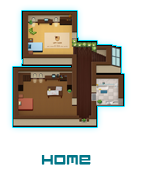
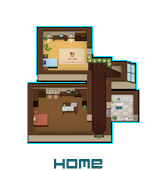
- updated art assets for level selector

diff --git a/lib/game/entities/levelSelector.js b/lib/game/entities/levelSelector.js
@@ -28,9 +28,7 @@ ig.module(
 
         init: function(x, y, settings) {
             this.parent(x, y, settings);
-
-            if (!ig.gui.element.action('getByName', 'LS_Background')) //if levelselector gui has not been created
-                this.createGUI();
+            this.createGUI();
         },
 
         update: function() {
@@ -124,112 +122,125 @@ ig.module(
         },
 
         createGUI: function() {
-            ig.gui.element.add({
-                name: 'LS_Background',
-                group: 'Group_LevelSelector',
-                size: {x: 1024, y: 768},
-                pos: {x: 0, y: 0},
-                alpha: 0,
-                state: {
-                    normal: {image: this.background}
-                }
-            });
+            if (!ig.gui.element.action('getByName', 'LS_Background')) {
+                ig.gui.element.add({
+                    name: 'LS_Background',
+                    group: 'Group_LevelSelector',
+                    size: {x: 1024, y: 768},
+                    pos: {x: 0, y: 0},
+                    alpha: 0,
+                    state: {
+                        normal: {image: this.background}
+                    }
+                });
+            }
 
-            ig.gui.element.add({
-                name: 'LS_Button_Level_1',
-                group: 'Group_LevelSelector',
-                size: {x: 142, y: 169},
-                pos: {x: 100, y: 146},
-                alpha: 0,
-                state: {
-                    normal: {image: this.btn_level1_default},
-                    hover: {image: this.btn_level1_hover},
-                    active: {image: this.btn_level1_hover}
-                },
-                click: function() {
-                    ig.game.getEntitiesByType(EntityLevelSelector)[0].jumpToLevel('1_House_UpperFloor');
-                }
-            });
+            if (!ig.gui.element.action('getByName', 'LS_Button_Level_1')) {
+                ig.gui.element.add({
+                    name: 'LS_Button_Level_1',
+                    group: 'Group_LevelSelector',
+                    size: {x: 165, y: 170},
+                    pos: {x: 85, y: 130},
+                    alpha: 0,
+                    state: {
+                        normal: {image: this.btn_level1_default},
+                        hover: {image: this.btn_level1_hover},
+                        active: {image: this.btn_level1_hover}
+                    },
+                    click: function() {
+                        ig.game.getEntitiesByType(EntityLevelSelector)[0].jumpToLevel('1_House_UpperFloor');
+                    }
+                });
+            }
 
-            ig.gui.element.add({
-                name: 'LS_Button_Level_2',
-                group: 'Group_LevelSelector',
-                size: {x: 160, y: 170},
-                pos: {x: 91, y: 333},
-                alpha: 0,
-                state: {
-                    normal: {image: this.btn_level2_default},
-                    hover: {image: this.btn_level2_hover},
-                    active: {image: this.btn_level2_hover}
-                },
-                click: function() {
-                    ig.game.getEntitiesByType(EntityLevelSelector)[0].jumpToLevel('2_PoliceHQ_GroundFloor');
-                }
-            });
+            if (!ig.gui.element.action('getByName', 'LS_Button_Level_2')) {
+                ig.gui.element.add({
+                    name: 'LS_Button_Level_2',
+                    group: 'Group_LevelSelector',
+                    size: {x: 169, y: 172},
+                    pos: {x: 86, y: 313},
+                    alpha: 0,
+                    state: {
+                        normal: {image: this.btn_level2_default},
+                        hover: {image: this.btn_level2_hover},
+                        active: {image: this.btn_level2_hover}
+                    },
+                    click: function() {
+                        ig.game.getEntitiesByType(EntityLevelSelector)[0].jumpToLevel('2_PoliceHQ_GroundFloor');
+                    }
+                });
+            }
 
-            ig.gui.element.add({
-                name: 'LS_Button_Level_3-1',
-                group: 'Group_LevelSelector',
-                size: {x: 180, y: 190},
-                pos: {x: 732, y: 511},
-                alpha: 0,
-                state: {
-                    normal: {image: this.btn_level3_1_default},
-                    hover: {image: this.btn_level3_1_hover},
-                    active: {image: this.btn_level3_1_hover}
-                },
-                click: function() {
-                    ig.game.getEntitiesByType(EntityLevelSelector)[0].jumpToLevel('3_Tower_GroundFloor');
-                }
-            });
+            if (!ig.gui.element.action('getByName', 'LS_Button_Level_3-1')) {
+                ig.gui.element.add({
+                    name: 'LS_Button_Level_3-1',
+                    group: 'Group_LevelSelector',
+                    size: {x: 193, y: 178},
+                    pos: {x: 725, y: 503},
+                    alpha: 0,
+                    state: {
+                        normal: {image: this.btn_level3_1_default},
+                        hover: {image: this.btn_level3_1_hover},
+                        active: {image: this.btn_level3_1_hover}
+                    },
+                    click: function() {
+                        ig.game.getEntitiesByType(EntityLevelSelector)[0].jumpToLevel('3_Tower_GroundFloor');
+                    }
+                });
+            }
 
-            ig.gui.element.add({
-                name: 'LS_Button_Level_3-2',
-                group: 'Group_LevelSelector',
-                size: {x: 200, y: 180},
-                pos: {x: 725, y: 332},
-                alpha: 0,
-                state: {
-                    normal: {image: this.btn_level3_2_default},
-                    hover: {image: this.btn_level3_2_hover},
-                    active: {image: this.btn_level3_2_hover}
-                },
-                click: function() {
-                    ig.game.getEntitiesByType(EntityLevelSelector)[0].jumpToLevel('3_Tower_TopFloor');
-                }
-            });
+            if (!ig.gui.element.action('getByName', 'LS_Button_Level_3-2')) {
+                ig.gui.element.add({
+                    name: 'LS_Button_Level_3-2',
+                    group: 'Group_LevelSelector',
+                    size: {x: 184, y: 168},
+                    pos: {x: 731, y: 312},
+                    alpha: 0,
+                    state: {
+                        normal: {image: this.btn_level3_2_default},
+                        hover: {image: this.btn_level3_2_hover},
+                        active: {image: this.btn_level3_2_hover}
+                    },
+                    click: function() {
+                        ig.game.getEntitiesByType(EntityLevelSelector)[0].jumpToLevel('3_Tower_TopFloor');
+                    }
+                });
+            }
 
-            ig.gui.element.add({
-                name: 'LS_Button_Level_4',
-                group: 'Group_LevelSelector',
-                size: {x: 170, y: 180},
-                pos: {x: 740, y: 143},
-                alpha: 0,
-                state: {
-                    normal: {image: this.btn_level4_default},
-                    hover: {image: this.btn_level4_hover},
-                    active: {image: this.btn_level4_hover}
-                },
-                click: function() {
-                    ig.game.getEntitiesByType(EntityLevelSelector)[0].jumpToLevel('3_Tower_SecretFloor');
-                }
-            });
+            if (!ig.gui.element.action('getByName', 'LS_Button_Level_4')) {
+                ig.gui.element.add({
+                    name: 'LS_Button_Level_4',
+                    group: 'Group_LevelSelector',
+                    size: {x: 185, y: 180},
+                    pos: {x: 727, y: 123},
+                    alpha: 0,
+                    state: {
+                        normal: {image: this.btn_level4_default},
+                        hover: {image: this.btn_level4_hover},
+                        active: {image: this.btn_level4_hover}
+                    },
+                    click: function() {
+                        ig.game.getEntitiesByType(EntityLevelSelector)[0].jumpToLevel('3_Tower_SecretFloor');
+                    }
+                });
+            }
 
-            ig.gui.element.add({
-                name: 'LS_Button_Close',
-                group: 'Group_LevelSelector',
-                size: { x: 36, y: 37 },
-                pos: { x: 928, y: 29 },
-                alpha: 0,
-                state: {
-                    normal: { image: this.btn_close_default },
-                    hover: { image: this.btn_close_hover }
-                },
-                click: function() {
-                    ig.game.getEntitiesByType(EntityLevelSelector)[0].hide();
-                }
-            });
-
+            if (!ig.gui.element.action('getByName', 'LS_Button_Close')) {
+                ig.gui.element.add({
+                    name: 'LS_Button_Close',
+                    group: 'Group_LevelSelector',
+                    size: { x: 36, y: 37 },
+                    pos: { x: 928, y: 29 },
+                    alpha: 0,
+                    state: {
+                        normal: { image: this.btn_close_default },
+                        hover: { image: this.btn_close_hover }
+                    },
+                    click: function() {
+                        ig.game.getEntitiesByType(EntityLevelSelector)[0].hide();
+                    }
+                });
+            }
             ig.gui.element.action('hideGroup', 'Group_LevelSelector');
         },
 
